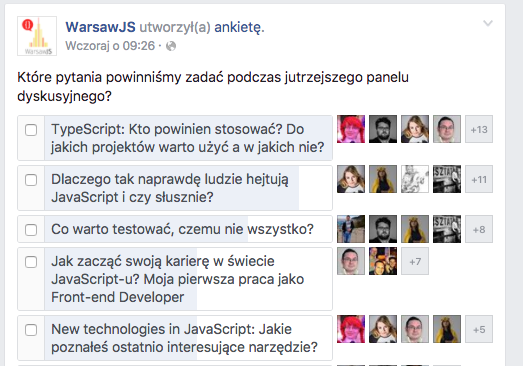
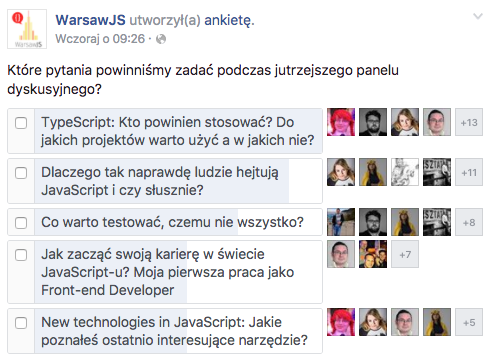
Add link do countdonw

Changed region(s): [[0.0, 0.031, 0.9796, 1.0], [0.949, 0.5577, 0.9796, 0.5887]]

diff --git a/index.html b/index.html
@@ -122,7 +122,9 @@
 
     <section class="slide">
         <img src="pytania.png"
-             alt="" style="position: absolute; left: 50px; top: 20px; width: 80%">
+             alt="" style="position: absolute; left: 50px; top: 20px; width: 70%">
+        <h3 class="shout" style="font-size: 30px; margin-top: 250px;">[ <a
+                href="https://piecioshka.github.io/countdown/">Odliczanie</a> ]</h3>
     </section>
 
     <section class="slide">
